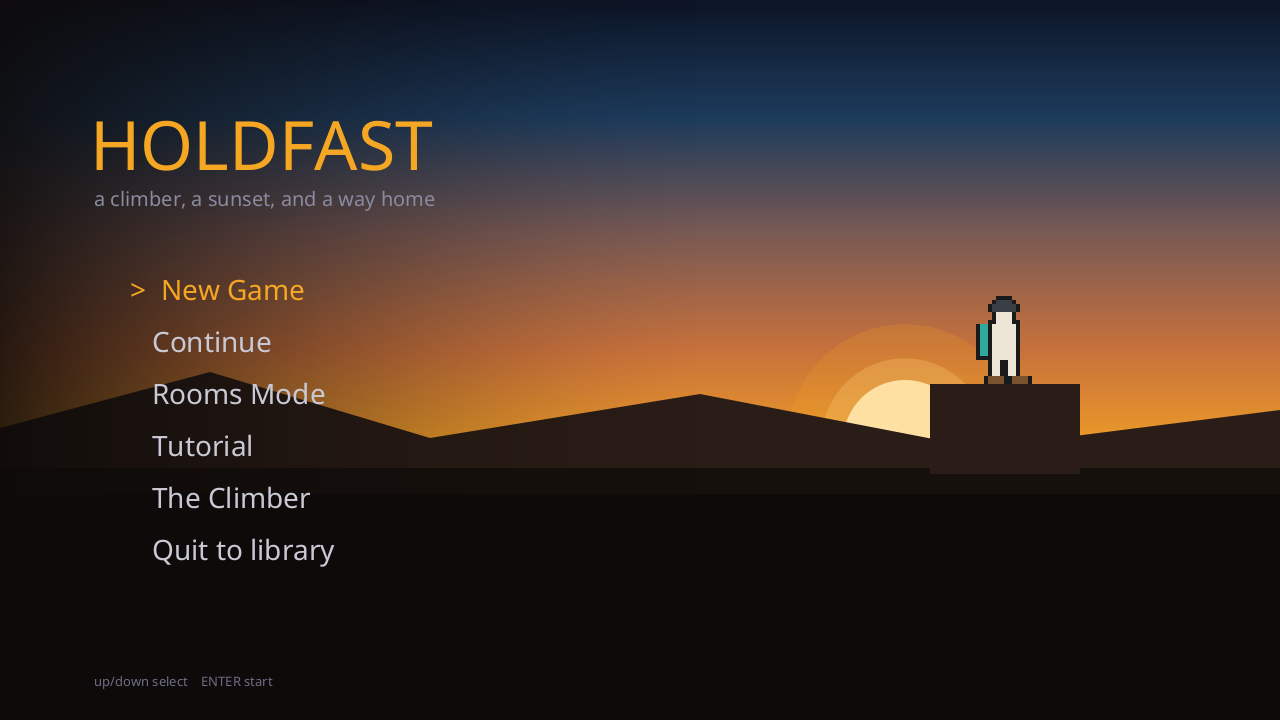
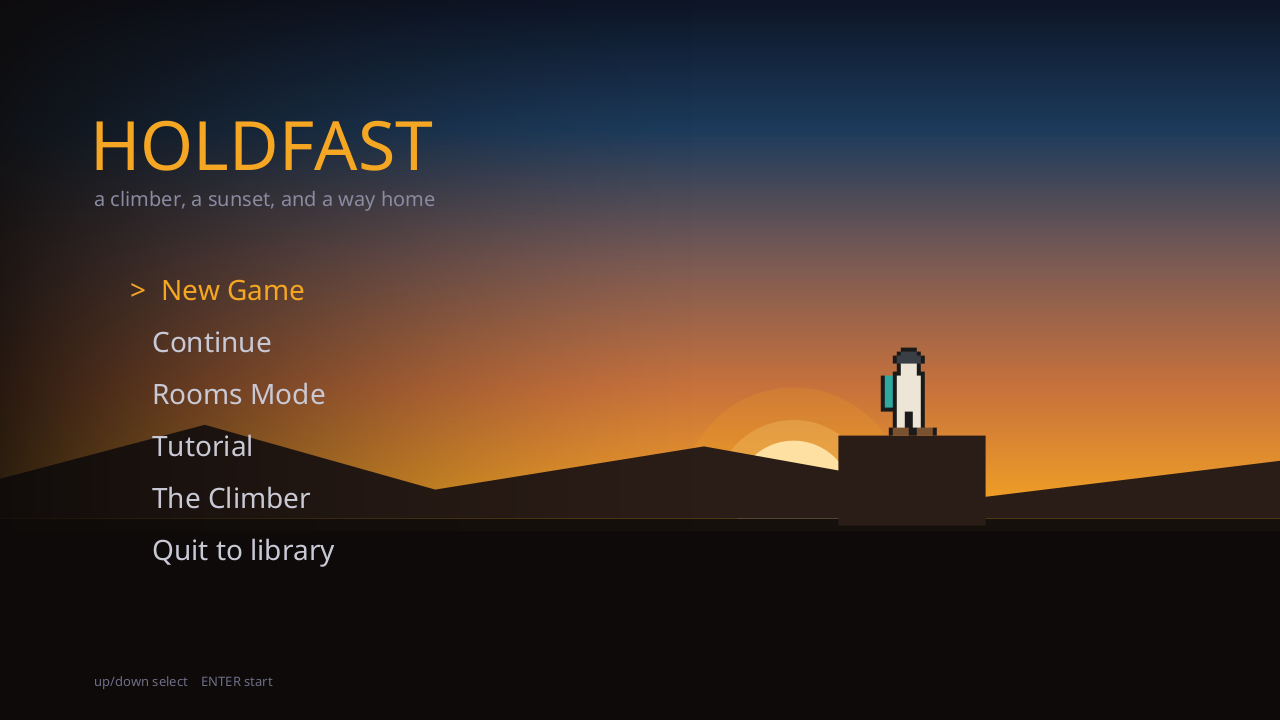
The horizon is one place now, and game over is the same place later
The title screen got the sunset yesterday. The game-over screen is the OTHER place the game's sentence lands, and
it is the screen a player sees MOST - dying is what a platformer does - and it was still a flat #1a1a2e with a
red heading, in the same two menu colours that appear nowhere else in the game.

TWO COPIES OF THE SAME HORIZON WOULD DRIFT the first time either was touched, so the geometry moved into
Skyline, and the screens ask for a mood:

  Skyline.paint(gc, W, H, Skyline.Mood.DUSK,  true,  true)   the title screen
  Skyline.paint(gc, W, H, Skyline.Mood.NIGHT, false, true)   game over

DUSK is warm with the sun still on the ridge. NIGHT is the same place after it has gone: cold, grey, three faint
stars where the sun was.

AND THE LAST ARGUMENT IS THE WHOLE POINT: the rock is EMPTY on game over. The climber is not standing on it. That
is the entire difference between the two screens and it needs no words - "a climber, a sunset, and a way home",
and then not this time.

The horizontal fade moved into Skyline as well, because both screens put their words on the left and it was about
to be copied.

Verified by looking at both: HOLDFAST over a warm sky with the climber on its rock; GAME OVER over a cold one
with the rock empty and the stats readable. The refactor left the title screen pixel-identical.

Changed region(s): [[0.0, 0.3972, 1.0, 0.7333]]

diff --git a/src/main/java/aside/games/fruitjump/Skyline.java b/src/main/java/aside/games/fruitjump/Skyline.java
@@ -1,0 +1,101 @@
+package aside.games.fruitjump;
+
+import javafx.scene.canvas.GraphicsContext;
+import javafx.scene.image.WritableImage;
+import javafx.scene.paint.Color;
+
+/**
+ * The horizon the game happens on: a sky, a ridge, a rock, and - usually - a climber standing on it.
+ *
+ * <p><b>Why this is one class and not two drawings.</b> "A climber, a sunset, and a way home" is the game's own
+ * sentence, and it belongs on more than one screen. The title screen got it first; the game-over screen is the
+ * other place it lands, and it is the screen a player sees MOST - dying is what a platformer does. Two copies of
+ * the same horizon would drift apart the first time either was touched, so the geometry lives here and the two
+ * screens ask for a mood.
+ *
+ * <p>The moods are the two ends of the same day. {@link Mood#DUSK} is the title screen: warm, gold on the
+ * horizon, the sun still up. {@link Mood#NIGHT} is the game-over screen: the sun is down and the sky has gone
+ * cold and grey. Same place, later.
+ */
+final class Skyline {
+
+    private Skyline() { }
+
+    enum Mood {
+        /** Warm, the sun still on the ridge. */
+        DUSK,
+        /** After the sun. Cold and grey, and no sun to draw. */
+        NIGHT
+    }
+
+    static void paint(GraphicsContext gc, double w, double h, Mood mood, boolean climber,
+                      boolean fadeForText) {
+        if (w <= 0 || h <= 0) return;
+        double horizon = h * (mood == Mood.DUSK ? 0.72 : 0.70);
+
+        Color[] sky = mood == Mood.DUSK
+                ? new Color[]{Color.web("#0d1526"), Color.web("#1d3b5c"), Color.web("#7a5a54"),
+                              Color.web("#c9723c"), Color.web("#f5a623")}
+                : new Color[]{Color.web("#05080e"), Color.web("#0e1a2a"), Color.web("#1e2c3a"),
+                              Color.web("#333d46"), Color.web("#4a4f52")};
+        for (int y = 0; y < horizon; y++) {
+            double t = y / horizon * (sky.length - 1);
+            int i = Math.min((int) t, sky.length - 2);
+            gc.setFill(sky[i].interpolate(sky[i + 1], t - i));
+            gc.fillRect(0, y, w, 1);
+        }
+
+        if (mood == Mood.DUSK) {
+            // The sun, going down behind the ridge.
+            double sunX = w * 0.62, sunY = horizon - h * 0.026, r = h * 0.082;
+            gc.setFill(Color.web("#f5a623", 0.20));
+            gc.fillOval(sunX - r * 1.9, sunY - r * 1.9, r * 3.8, r * 3.8);
+            gc.setFill(Color.web("#f5c46a", 0.35));
+            gc.fillOval(sunX - r * 1.35, sunY - r * 1.35, r * 2.7, r * 2.7);
+            gc.setFill(Color.web("#ffe0a3"));
+            gc.fillOval(sunX - r, sunY - r, r * 2, r * 2);
+        } else {
+            // One star, low and faint, where the sun was. Not a sky full of them - this is a game-over screen and
+            // it should be quiet.
+            gc.setFill(Color.web("#c9d4e0", 0.35));
+            gc.fillOval(w * 0.30, horizon - h * 0.22, 3, 3);
+            gc.fillOval(w * 0.52, horizon - h * 0.30, 2, 2);
+            gc.fillOval(w * 0.80, horizon - h * 0.16, 2, 2);
+        }
+
+        // The ridge, and the ground.
+        Color rock = mood == Mood.DUSK ? Color.web("#2a1c16") : Color.web("#12161c");
+        Color soil = mood == Mood.DUSK ? Color.web("#16100c") : Color.web("#0a0c10");
+        Color deep = mood == Mood.DUSK ? Color.web("#0d0a09") : Color.web("#06080b");
+        gc.setFill(rock);
+        gc.fillPolygon(new double[]{0, w * 0.16, w * 0.34, w * 0.55, w * 0.77, w, w, 0},
+                       new double[]{horizon - h * 0.055, horizon - h * 0.13, horizon - h * 0.04,
+                                    horizon - h * 0.10, horizon - h * 0.03, horizon - h * 0.08, horizon, horizon}, 8);
+        gc.setFill(soil);
+        gc.fillRect(0, horizon, w, h - horizon);
+        gc.setFill(deep);
+        gc.fillRect(0, horizon + h * 0.018, w, h - horizon - h * 0.018);
+        gc.setFill(rock);
+        gc.fillRect(w * 0.655, horizon - h * 0.115, w * 0.115, h * 0.125);
+
+        // And the climber, on the rock - or not, which is the whole difference between the two screens. The
+        // sprite is the real one, from the same grid the game plays, so the character here is the character you
+        // control. If the sprite changes, this changes with it.
+        if (climber) {
+            WritableImage img = Sprite.buildScaled(Sprite.PLAYER, Sprite.PAL(),
+                    Sprite.PLAYER[0].length() * 4, Sprite.PLAYER.length * 4);
+            gc.drawImage(img, w * 0.685, horizon - h * 0.115 - Sprite.PLAYER.length * 4);
+        }
+
+        // A horizontal fade, so words can sit on the left of a bright sky. Both screens put their text there -
+        // the title and its menu, the game-over card and its stats - so it belongs here rather than being copied.
+        if (fadeForText) {
+            Color ink = mood == Mood.DUSK ? Color.web("#0d0a09") : Color.web("#06080b");
+            double fadeW = w * 0.56;
+            for (int x = 0; x < fadeW; x++) {
+                gc.setFill(ink.deriveColor(0, 1, 1, 0.86 * Math.pow(1.0 - x / fadeW, 1.6)));
+                gc.fillRect(x, 0, 1, h);
+            }
+        }
+    }
+}

diff --git a/src/main/java/aside/games/fruitjump/MainMenu.java b/src/main/java/aside/games/fruitjump/MainMenu.java
@@ -125,56 +125,8 @@ public class MainMenu extends UiScreen {
      * and a bright sky would swallow them. The art is on the right and the words are on the left, which is also
      * how the screen was already laid out.
      */
-    void drawSunset() {
-        // Sky: dark blue at the top, warming down to the horizon.
-        int horizon = 468;
-        Color[] sky = {Color.web("#0d1526"), Color.web("#1d3b5c"), Color.web("#7a5a54"), Color.web("#c9723c"),
-                       Color.web("#f5a623")};
-        for (int y = 0; y < horizon; y++) {
-            double t = (double) y / horizon * (sky.length - 1);
-            int i = Math.min((int) t, sky.length - 2);
-            gc.setFill(sky[i].interpolate(sky[i + 1], t - i));
-            gc.fillRect(0, y, W, 1);
-        }
-
-        // The sun, sitting on the ridge.
-        double sunX = 905, sunY = horizon - 26, r = 62;
-        gc.setFill(Color.web("#f5a623", 0.20));
-        gc.fillOval(sunX - r * 1.9, sunY - r * 1.9, r * 3.8, r * 3.8);
-        gc.setFill(Color.web("#f5c46a", 0.35));
-        gc.fillOval(sunX - r * 1.35, sunY - r * 1.35, r * 2.7, r * 2.7);
-        gc.setFill(Color.web("#ffe0a3"));
-        gc.fillOval(sunX - r, sunY - r, r * 2, r * 2);
-
-        // A ridge, and the rock the climber stands on. Silhouettes, so the sky does the work.
-        gc.setFill(Color.web("#2a1c16"));
-        gc.fillPolygon(new double[]{0, 210, 430, 700, 980, 1280, 1280, 0},
-                       new double[]{horizon - 40, horizon - 96, horizon - 30, horizon - 74, horizon - 20,
-                                    horizon - 58, horizon, horizon}, 8);
-
-        // Foreground: the ground band, and one block to stand on.
-        gc.setFill(Color.web("#16100c"));
-        gc.fillRect(0, horizon, W, H - horizon);
-        gc.setFill(Color.web("#0d0a09"));
-        gc.fillRect(0, horizon + 26, W, H - horizon - 26);
-        gc.setFill(Color.web("#2a1c16"));
-        gc.fillRect(930, horizon - 84, 150, 90);
-
-        // The climber, on top of it. The real sprite, built from the same grid the game plays.
-        var img = Sprite.buildScaled(Sprite.PLAYER, Sprite.PAL(), Sprite.PLAYER[0].length() * 4,
-                                     Sprite.PLAYER.length * 4);
-        gc.drawImage(img, 972, horizon - 84 - Sprite.PLAYER.length * 4);
-
-        // And the fade that keeps the words readable over it.
-        for (int x = 0; x < 720; x++) {
-            double a = 0.86 * Math.pow(1.0 - (double) x / 720, 1.6);
-            gc.setFill(Color.web("#0d0a09", a));
-            gc.fillRect(x, 0, 1, H);
-        }
-    }
-
     void draw() {
-        drawSunset();
+        Skyline.paint(gc, W, H, Skyline.Mood.DUSK, true, true);
 
         gc.setFill(Color.web("#f5a623"));
         gc.setFont(F_TITLE);

diff --git a/src/main/java/aside/games/fruitjump/GameOverScreen.java b/src/main/java/aside/games/fruitjump/GameOverScreen.java
@@ -38,8 +38,13 @@ public class GameOverScreen extends UiScreen {
 
     @Override
     public void tick(double dt) {
-        gc.setFill(Color.web("#1a1a2e"));
-        gc.fillRect(0, 0, W, H);
+        // THE SAME HORIZON AS THE TITLE SCREEN, later in the day. This screen was a flat #1a1a2e with a red
+        // heading - the same treatment the title screen had, and the same two menu colours that appear nowhere
+        // else in the game. It is also the screen a player sees MOST, because dying is what a platformer does.
+        //
+        // So: the sun is down, the sky has gone cold and grey, and THE ROCK IS EMPTY. The climber is not standing
+        // on it. That is the whole difference between this screen and the title, and it needs no words.
+        Skyline.paint(gc, W, H, Skyline.Mood.NIGHT, false, true);
 
         gc.setFill(Color.web("#e94560"));
         gc.setFont(F_TITLE);
